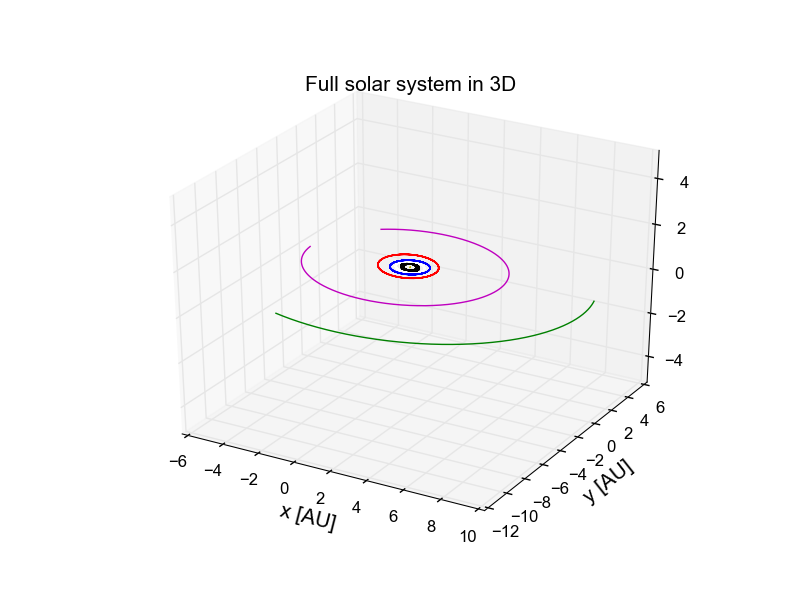
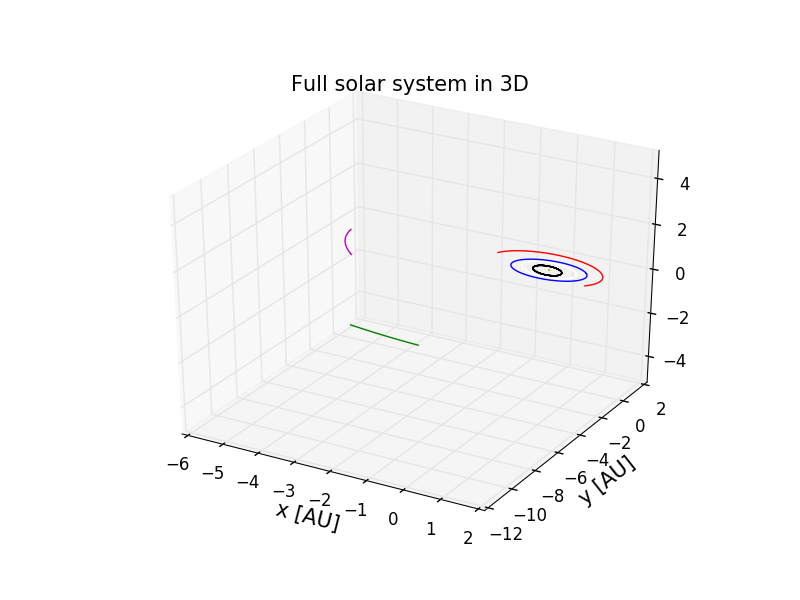
Wrote more on relative mercury

diff --git a/src/main.cpp b/src/main.cpp
@@ -1,4 +1,4 @@
-#include <iostream>
+#include <iostream>
 #include <iomanip>
 #include <string>
 #include <fstream>
@@ -41,9 +41,9 @@ int main(int argc, char *argv[])
     char const *method = "Verlet";
     if (argc == 5)
     {
-        if (!(strcmp(argv[4],"Euler")==0 || strcmp(argv[4],"Verlet")==0))
+        if (!(strcmp(argv[4],"Euler")==0 || strcmp(argv[4],"Verlet")==0 || strcmp(argv[4], "VerletREL") == 0))
         {
-            cout<<"Method not specified correctly, use 'Euler' or  'Verlet'. Set to Verlet by default."<<endl;
+            cout<<"Method not specified correctly, use 'Euler', 'Verlet' or 'VerletREL'. Set to Verlet by default."<<endl;
         }
         else
         {
@@ -263,7 +263,31 @@ int main(int argc, char *argv[])
 
     else if(strcmp(argv[1], "GM") == 0)
     {
-        cout << "Think of all the things we learned." << endl;
+        // Creating filename
+        string filename = "../benchmarks/GM/pos_dt"+to_string(dt)+"_N"+to_string(num_timesteps)+".xyz";
+
+        // Adding objects to the solar system
+        solarSystem.createCelestialBody(vec3(0,0,0),vec3(0,0,0),1.0); // adding the Sun
+
+        // Relative masses, in units [M_sun]
+        double M_sun = 2e30;             // mass of the Sun in kg
+        double M_mercury = 2.4e23/M_sun;       // mass of Mercury in kg
+
+        // Adding the Earth
+        vec3 pos_M = vec3(0.3075, 0, 0);  // position [AU]
+        vec3 vel_M = vec3(0, 12.44, 0); // velocity [AU/year]
+        solarSystem.createCelestialBody(pos_M, vel_M, M_mercury); // adding Mercury
+
+        // Integrating the system
+        solarSystem.writeToFile(filename); //initializing file
+        Integrator integrator(dt,method);
+
+        for (int i=0; i<num_timesteps; i++)
+        {
+            integrator.integrateOneStep(solarSystem);
+            solarSystem.writeToFile(filename);
+        }
+
     }
     else
     {

diff --git a/src/integrator.cpp b/src/integrator.cpp
@@ -16,6 +16,7 @@ void Integrator::integrateOneStep(SolarSystem &system)
     /* Forward Euler */
     if (strcmp(num_method,"Euler")==0)
     {
+        system.calculateForcesAndEnergy();
         for (CelestialBody &body : system.bodies()) {
             body.position += body.velocity*m_dt;
             body.velocity += body.force / body.mass * m_dt;
@@ -25,12 +26,27 @@ void Integrator::integrateOneStep(SolarSystem &system)
     /* Velocity Verlet */
     if (strcmp(num_method,"Verlet")==0)
     {
+
         for(CelestialBody &body : system.bodies()) {
             vec3 accel1 = body.force/body.mass; // acceleration before updating x(i) to x(i+1)
             body.position += body.velocity*m_dt + 0.5 * accel1 * pow(m_dt,2);
 
             // Need to check if "force" = f/m or without div by m
             system.calculateForcesAndEnergy(); // updating forces at x(i+1)
+            body.velocity += 0.5* (accel1 + body.force / body.mass) * m_dt;
+        }
+    }
+
+    /* Velocity Verlet for relative case */
+    if (strcmp(num_method,"VerletREL")==0)
+    {
+    system.calculateForcesAndEnergyREL();
+        for(CelestialBody &body : system.bodies()) {
+            vec3 accel1 = body.force/body.mass; // acceleration before updating x(i) to x(i+1)
+            body.position += body.velocity*m_dt + 0.5 * accel1 * pow(m_dt,2);
+
+            // Need to check if "force" = f/m or without div by m
+            system.calculateForcesAndEnergyREL(); // updating forces at x(i+1)
             body.velocity += 0.5* (accel1 + body.force / body.mass) * m_dt;
         }
     }

diff --git a/src/solarsystem.cpp b/src/solarsystem.cpp
@@ -47,6 +47,42 @@ void SolarSystem::calculateForcesAndEnergy()
     }
 }
 
+void SolarSystem::calculateForcesAndEnergyREL()
+{
+    m_kineticEnergy = 0;
+    m_potentialEnergy = 0;
+    m_angularMomentum.zeros();
+
+    double c = 63239.7263; // AU/year
+
+    for(CelestialBody &body : m_bodies) {
+        // Reset forces on all bodies
+        body.force.zeros();
+    }
+
+    for(int i=0; i<numberOfBodies(); i++) {
+        CelestialBody &body1 = m_bodies[i];
+        for(int j=i+1; j<numberOfBodies(); j++) {
+            CelestialBody &body2 = m_bodies[j];
+            vec3 deltaRVector = body1.position - body2.position;
+            double dr = deltaRVector.length();
+            double l = (body2.position.cross(body2.velocity)).length();
+            // Calculate the force and potential energy here
+
+            vec3 force = -4*pow(3.141592654,2) * body1.mass * body2.mass / pow(dr,3) * (1 + (3*pow(l, 2))/(pow(dr,2)*pow(c, 2))) * deltaRVector;
+            // see if 4pi^2 factor can be put outside to reduce flops + check minus sign
+            // check directionality of deltaRVector, among other things
+            body1.force += force;
+            body2.force -= force; // this sign is correct, otherwise cannot get circular orbit in ES
+
+            // Potential energy, check minus sign again
+            m_potentialEnergy += -4*pow(3.141592654,2) * body1.mass * body2.mass / dr;
+        }
+
+        m_kineticEnergy += 0.5*body1.mass*body1.velocity.lengthSquared();
+    }
+}
+
 int SolarSystem::numberOfBodies() const
 {
     return m_bodies.size();

diff --git a/src/plot3d.py b/src/plot3d.py
@@ -56,3 +56,26 @@ if task=='WS':
  #   ax3d.legend(numpoints=1,fontsize=14)
     fig3d.savefig('../figures/whole_system.png')
     show()
+
+if task=='GM':
+    dt = '0.010000'
+    m = 1
+    filename = '../benchmarks/GM/pos_dt%s_N%d.xyz'%(dt,N)
+    pos = read_file(filename,N)
+    
+    fig3d = figure()
+    ax3d = fig3d.add_subplot(111,projection='3d')
+
+    for i in range(len(pos)-3):
+#        ax3d.plot(pos[i][0],pos[i][0],'o',color=colors[i],ms=10,label=bodies[i])
+    
+        ax3d.plot(pos[i][:,0],pos[i][:,1],pos[i][:,2],color=colors[i])
+
+    ax3d.set_xlabel('x [AU]',size=15)
+    ax3d.set_ylabel('y [AU]',size=15)
+    ax3d.set_title(r'Mercury in 3D',size=15)
+    ax3d.set_zlim(-5,5)
+    #grid('on')
+ #   ax3d.legend(numpoints=1,fontsize=14)
+    fig3d.savefig('../figures/general_mercury.png')
+    show()

diff --git a/src/solar_system.py b/src/solar_system.py
@@ -74,3 +74,20 @@ if __name__=='__main__':
         legend(numpoints=1,fontsize=14)
         savefig('../figures/earth_sun_jupiter.png')
         show()
+
+            # Plot ES
+    if task=='GM':
+        filename = '../benchmarks/GM/pos_dt0.010000_N1000.xyz'
+        positions = read_file(filename,N)
+
+        plot(positions[0][:,0],positions[0][:,1],label='Sun')
+        plot(positions[1][:,0],positions[1][:,1],label='Mercury')
+        xlabel('x [AU]',size=17)
+        ylabel('y [AU]',size=17)
+        title('Mercury-Sun system',size=17)
+        grid('on')
+        legend(fontsize=14)
+        #xlim([-1.1e1,1.1e1])
+        #ylim([-1.1e3,1.1e3])
+        savefig('../figures/Mercury_sun.png')
+        show()

diff --git a/src/solarsystem.h b/src/solarsystem.h
@@ -12,6 +12,7 @@ public:
     SolarSystem();
     CelestialBody &createCelestialBody(vec3 position, vec3 velocity, double mass);
     void calculateForcesAndEnergy();
+    void calculateForcesAndEnergyREL();
     int numberOfBodies() const;
 
     double totalEnergy() const;
